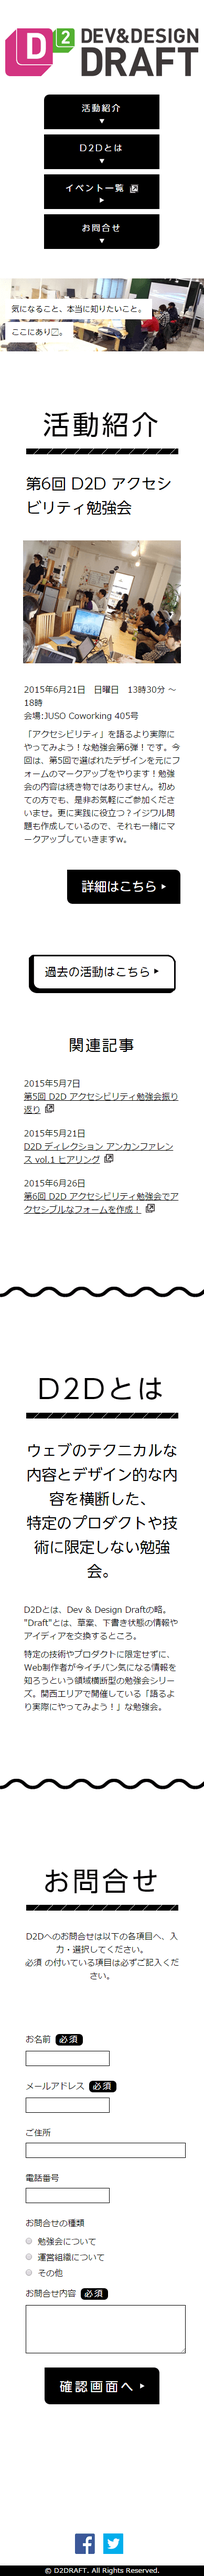
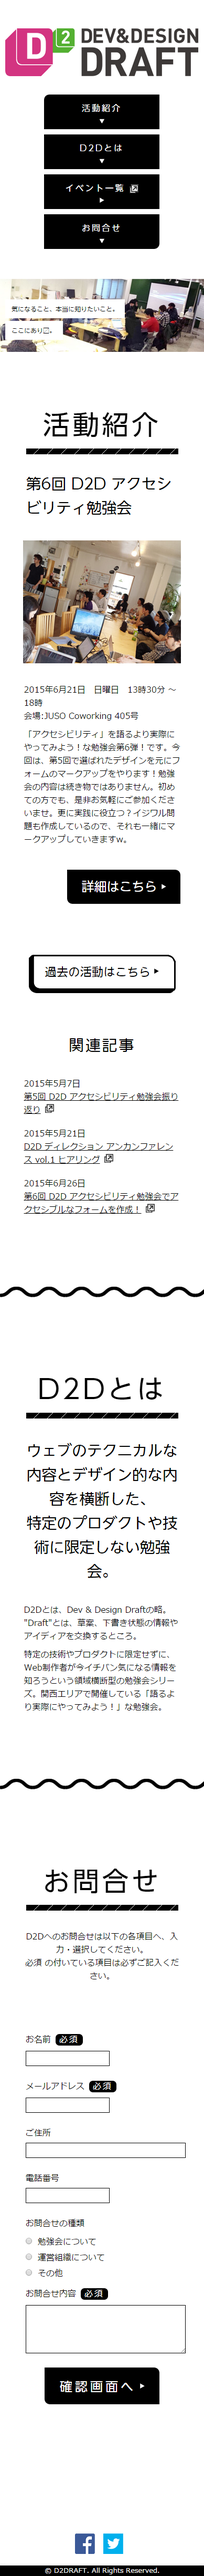
スマホ用デザインのキャッチコピー部分の文字サイズを小さくしました。

diff --git a/style.css b/style.css
@@ -545,3 +545,18 @@ footer small {
 	}
 
 }
+
+/* for max-width 480px */
+
+@media only screen and (max-width: 480px) {
+
+	figure figcaption p {
+		width: 110px;
+		font-size: 75%;
+	}
+
+	figure figcaption p:first-child {
+		width: 228px;
+	}
+
+}
